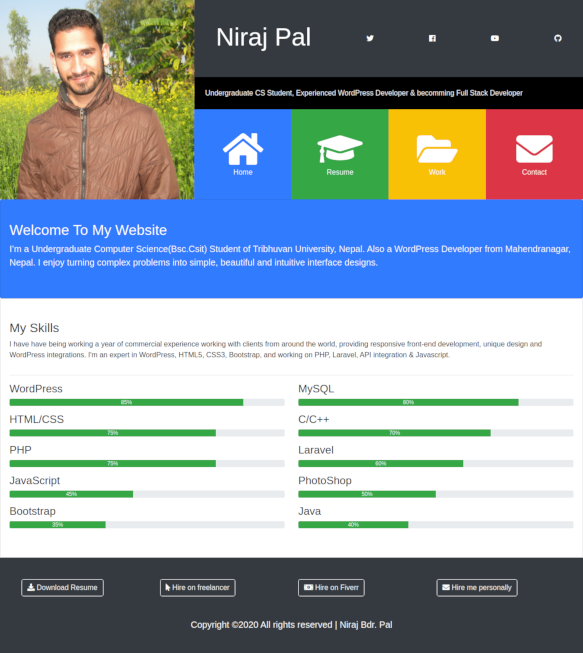
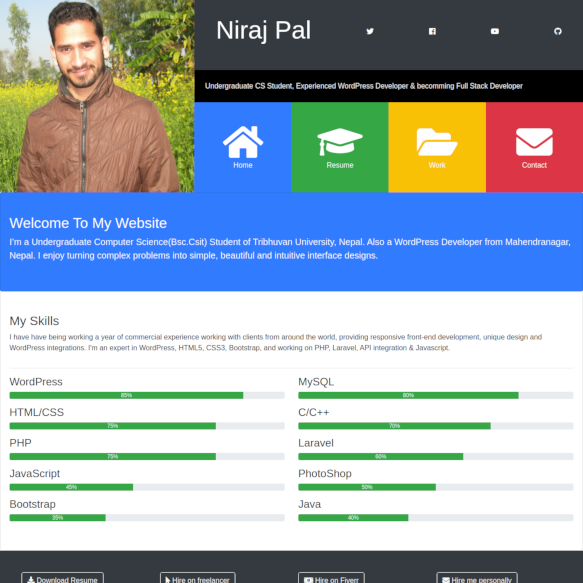
container removed

diff --git a/index.html b/index.html
@@ -16,23 +16,17 @@
     content="Pal, Palg, Paljee, Niraj, Neeraj, Niraj Pal, Niraj Bahadur Pal, Neeraj Bahadur Pal, palniraj21, nirajpal.com.np, thakuri, Niraj Pal Thakuri, Pal Neeraj np, Pal Neeraj Thaquree, निरज पाल, निरज पाल ठकुरी, निरज बहादुर पाल, निरज बहादुर पाल ठकुरी, Tribhuvan University- Undergraduate Bsc.Csit 2074 Batch Student,Professional WordPress Website Developer from Bedkot-08 Kanchanpur Nepal, Front-end Developer and Back-end in Mahendranagar ">
   <meta name="description"
     content="Tribhuvan University- Undergraduate Bsc.Csit 2074 Batch Student & Aspiring Programmer, Software and Web Developer, WordPress Developer from Sudurpashchim Pradesh Nepal, E-commerce, CRM Developer in Mahendranagar, Hire WordPress Developer, Professional Web Developer from Nepal, Niraj Pal is freelance web developer from nepal,WordPress Theme Developer, Web Developer in Bhimdatta, Professional WordPress Website Developer, WordPress Designer in Mahendranagar, Php Laravel Developer from Kanchanpur,  Front-end Developer and Back-end from Farwest province, Top WordPress Developer from Nepal   || Niraj Bahadur Pal FullStack Developer in Nepal ">
-  <title>Niraj Pal - Undergraduate CS Student & Full Stack Web Developer,Undergraduate CS Student, Experienced WordPress
-    Developer & becomming Full Stack Developer Aspiring Programmer, Software and Web Developer, WordPress Developer
-    from Sudurpashchim Pradesh Nepal, E-commerce, CRM Developer in Mahendranagar, Hire WordPress Developer,
-    Professional Web Developer from Nepal, Niraj Pal is freelance web developer from nepal,WordPress Theme
-    Developer, Web Developer in Bhimdatta, Professional WordPress Website Developer, WordPress Designer in
-    Mahendranagar, Php Laravel Developer from Kanchanpur, Front-end Developer and Back-end from Farwest province,
-    Top WordPress Developer from Nepal || Niraj Bahadur Pal FullStack Developer in Nepal</title>
+  <title>Niraj Pal - Undergraduate CS Student & Aspiring Programmer</title>
 </head>
 
 <body>
-  <div class="container">
+  <div>
     <header id="main-header">
       <div class="row no-gutters">
-        <div class="col-lg-4 col-md-5">
-          <img src="img/nirajpal-np.jpg" alt="nirajpal">
+        <div class="col-lg-3 col-md-4">
+          <img src="img/nirajpal-np.jpg" alt="nirajpal" >
         </div>
-        <div class="col col-lg-8 col-md-7">
+        <div class="col col-lg-9 col-md-8">
           <div class="d-flex flex-column">
             <div class="p-5 bg-dark text-white">
               <div class="d-flex flex-row justify-content-between align-items-center">
@@ -61,7 +55,7 @@
             </div>
 
             <div class="p-4 bg-black">
-              Undergraduate CS Student, Experienced WordPress Developer & becomming Full Stack Developer
+              Undergraduate Computer Science Student, Experienced WordPress Developer & Aspiring Programmer
             </div>
 
             <div>
@@ -95,13 +89,13 @@
         <h2>Welcome To My Website</h2>
         <p class="lead">I’m a Undergraduate Computer Science(Bsc.Csit) Student of Tribhuvan University, Nepal. Also a
           WordPress Developer from Mahendranagar, Nepal. I enjoy turning complex problems into simple, beautiful and
-          intuitive interface designs. </p>
+          intuitive interface designs. I'm happy to help people, share knowledge, ideas, and giving them guide & materials. </p>
       </div>
 
       <div class="card card-body py-5">
         <h3>My Skills</h3>
         <p>I have have being working a year of commercial experience working with clients from around the world,
-          providing responsive front-end development, unique design and WordPress integrations. I'm an expert in
+          providing responsive websites, unique design and WordPress integrations. I'm an expert in
           WordPress, HTML5, CSS3, Bootstrap, and working on PHP, Laravel, API integration & Javascript.</p>
         <hr>
         <div class="row">
@@ -166,7 +160,7 @@
       <!-- My Studies -->
 
       <div class="card card-body py-5">
-        <h3>Where Have I Learned & Worked?</h3>
+        <h3>Where Have I Learned & Worked?</h3><br>
         <p>My Studies</p>
         <div class="card-deck">
           <div class="card">
@@ -187,7 +181,7 @@
 
           <div class="card">
             <div class="card-body">
-              <h4 class="card-title">NEB </h4>
+              <h4 class="card-title">NEB(I.s.c) </h4>
               <p class="card-text">Little Buddha Academy, Bhagatpur, Kanchanpur, Nepal</p>
               <p class="p-2 mb-3 bg-dark text-white">
                 Position: First Division(61%)
@@ -294,14 +288,14 @@
       <h3>What Have I Built?</h3>
       <p>I have being working with several projects of Sofsee Tech Pvt. Ltd, Mahendranagar</p>
       <div class="row no-gutters">
-        <div class="col-md-4">
+        <div class="col-md-4 p-4">
           <a href="https://sofsee.com/" target="_blank">
             <img src="img/sofsee.png" alt="sofsee_website" class="img-fluid">
           </a>
           <h4 class="text-center">Sofsee Tech Pvt. Ltd.</h4>
           <p class="text-center">Professional Software development & IT training in Mahendranagar Nepal</p>
         </div>
-        <div class="col-md-4">
+        <div class="col-md-4 p-4">
           <a href="http://www.kamnarconstruction.com.au/" target="_blank">
             <img src="img/kamanar.png" alt="kamanar_website" class="img-fluid">
           </a>
@@ -310,7 +304,7 @@
           </p>
 
         </div>
-        <div class="col-md-4">
+        <div class="col-md-4 p-4">
           <a href="http://jcautocollision.com/" target="_blank">
             <img src="img/jacauto.png" alt="jcautocollision_website" class="img-fluid">
           </a>
@@ -322,7 +316,7 @@
       </div>
 
       <div class="row no-gutters">
-        <div class="col-md-4">
+        <div class="col-md-4 p-4">
           <a href="https://sweetnepal.org/" target="_blank">
             <img src="img/sweetnepal.png" alt="sweetnepal_website" class="img-fluid">
           </a>
@@ -331,7 +325,7 @@
             well developed & a prosperous one.</p>
         </div>
 
-        <div class="col-md-4">
+        <div class="col-md-4 p-4">
           <a href="https://sweetkhabar.com/" target="_blank">
             <img src="img/sweetkhabar.png" alt="sweetkhabar_website" class="img-fluid">
           </a>
@@ -339,9 +333,9 @@
           <p class="text-center">It is another news website of SweetNepal where they gives there news related to the
             society. </p>
         </div>
-        <div class="col-md-4">
+        <div class="col-md-4 p-4">
           <a href="https://nirajpal.com.np/" target="_blank">
-            <img src="img/nirajpal_website.png" style="width:420px;height:355px;" alt="nirajpal_website"
+            <img src="img/nirajpal_website.png"  alt="nirajpal_website"
               class="img-fluid">
           </a>
           <h4 class="text-center">Portfolio</h4>
@@ -358,7 +352,7 @@
   <div id="contact" class="collapse">
     <div class="card card-body bg-danger text-white py-5">
       <h2>Contact</h2>
-      <p class="lead">If you’ve got questions or ideas you would like to share, send a message. For anything more
+      <p class="lead">If you’ve got questions, need any kinds of help or ideas you would like to share, send a message. For anything more
         specific, please use one of the addresses listed below.</p>
     </div>
 
@@ -413,7 +407,7 @@
       <div class="col-sm">
         <div class="container py-5">
           <h3>Get In Touch</h3>
-          <p>After we get some information from you, we’ll set up a time to discuss your project in further detail.</p>
+          <p>After I get some information from you, i’ll set up a time to discuss your project in further detail.</p>
             <form name="contact" method="POST" id="my-form" data-netlify="true"><input type="hidden" name="form-name" value="contact">
             <div class="form-group">
               <div class="input-group input-group-lg">
